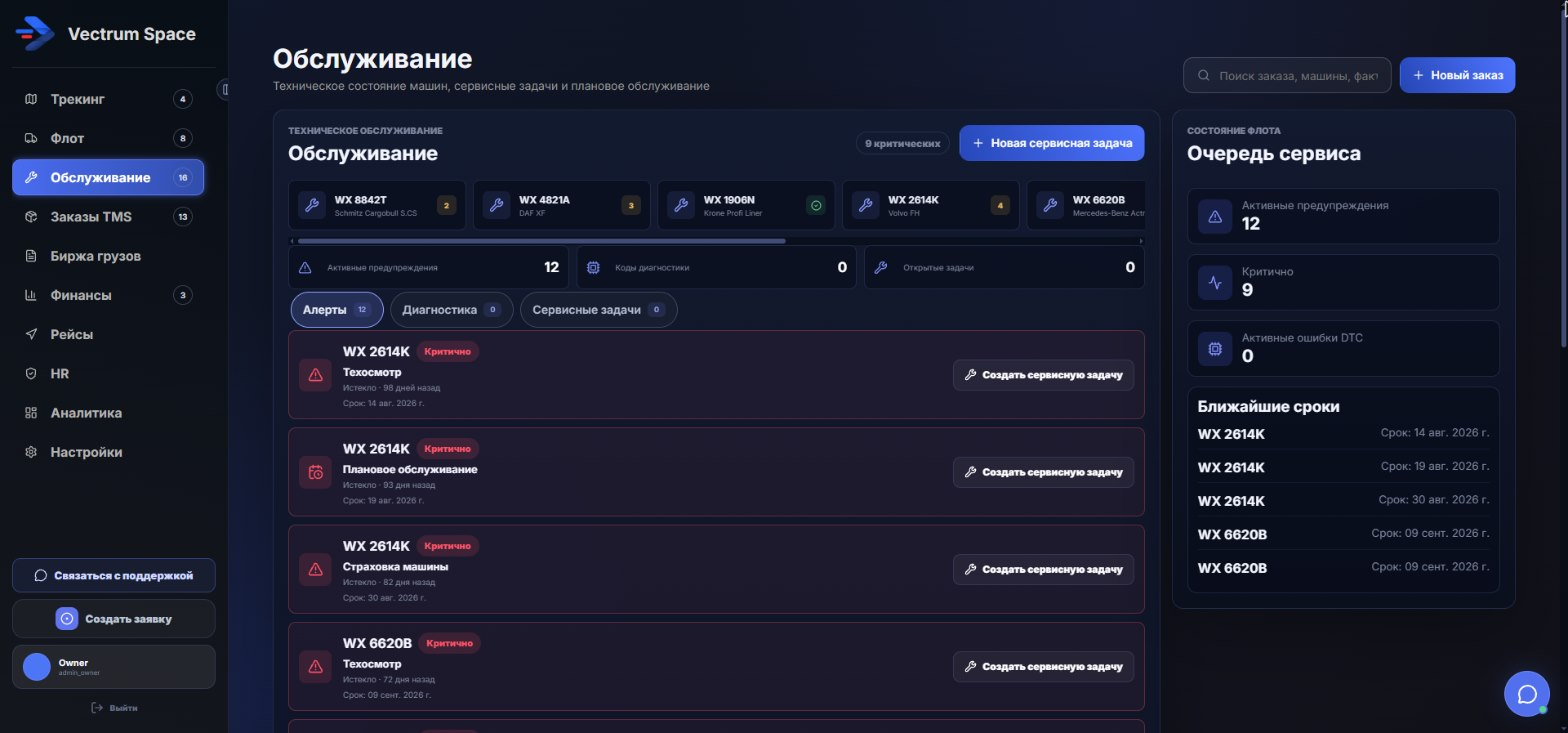
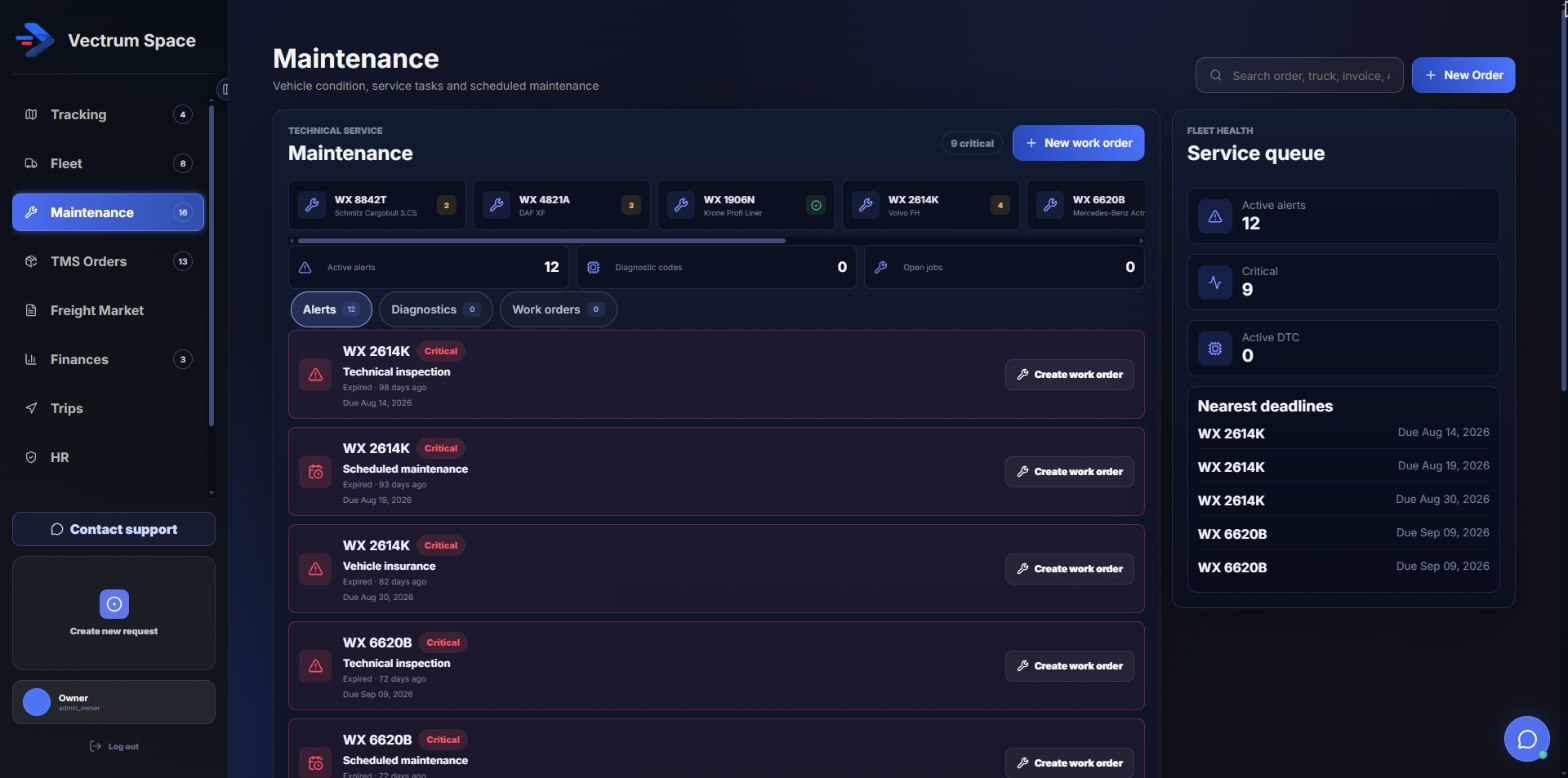
vectrum-space-demo v2: platform screens in English for every language
The six how-it-works screens are retaken with the platform interface in English (same masking of
names, companies, addresses, plates and avatars) and shown on every language version of the site.
The Russian note says the interface is shown in English and other languages are available.

diff --git a/vectrum-space-demo/demo/v2.js b/vectrum-space-demo/demo/v2.js
@@ -78,7 +78,7 @@
       how: {
         doc: 'Как работает Vectrum Space', eyebrow: 'Как это работает', title: ['Vectrum', 'изнутри.'],
         lead: 'Настоящие экраны платформы. Так выглядит рабочий день логиста, механика и владельца: от заказа и карты до сервиса и цифр компании.',
-        note: 'Экраны сняты на демо-данных: имена, компании и номера машин выдуманы.', navTitle: 'Разделы',
+        note: 'Экраны сняты на демо-данных: имена, компании и номера машин выдуманы. Интерфейс показан на английском, в платформе доступны и другие языки, в том числе русский.', navTitle: 'Разделы',
         ctaTitle: ['Хотите увидеть', 'на своих данных?'], ctaLead: 'Покажем Vectrum на примере вашего автопарка и поможем перенести машины, водителей и клиентов.',
         start: 'Начать бесплатно', demo: 'Записаться на демо',
         steps: [
@@ -303,7 +303,7 @@
             <div class="vs2h-copy"><div><span class="vs2-step-num">0${i + 1}</span><span class="vs2-step-day">${tag}</span><h2>${h[0]} <em>${h[1]}</em></h2></div>
               <div><p>${p}</p><ul>${li.map(t => `<li>${svg('check')}<span>${t}</span></li>`).join('')}</ul></div></div>
             <figure class="vs2h-shot" data-src="/__demo/how/${id}.jpg"><div class="vs2h-bar"><i></i><i></i><i></i></div>
-              <img src="/__demo/how/${id}.jpg" alt="${tag}" width="1568" height="733" decoding="async"></figure>
+              <img src="/__demo/how/${id}.jpg" alt="${tag}" width="1568" height="778" decoding="async"></figure>
           </section>`).join('')}</div>
       </div>
       <section class="vs2 vs2h-cta"><div class="vs2-card">

diff --git a/vectrum-space-demo/demo/v2.css b/vectrum-space-demo/demo/v2.css
@@ -130,7 +130,8 @@ main > [class*="__ecosystemBand"] { display: none !important; }
   box-shadow: 0 30px 80px -30px rgba(40,70,200,.45); }
 .vs2h-bar { display: flex; gap: 6px; padding: 10px 14px; border-bottom: 1px solid rgba(255,255,255,.06); background: rgba(255,255,255,.02); }
 .vs2h-bar i { width: 9px; height: 9px; border-radius: 50%; background: rgba(255,255,255,.14); }
-.vs2h-shot img { display: block; width: 100%; height: auto; aspect-ratio: 1568 / 733; }
+/* the platform screens are in English for every language of the site (user's decision) */
+.vs2h-shot img { display: block; width: 100%; height: auto; aspect-ratio: 1568 / 778; }
 .vs2h-cta .vs2-card { padding: 56px 32px; text-align: center; }
 .vs2h-cta h2 { margin: 0; }
 .vs2h-cta p { margin: 14px auto 0; max-width: 560px; font-size: 16px; line-height: 1.65; color: var(--muted); }
